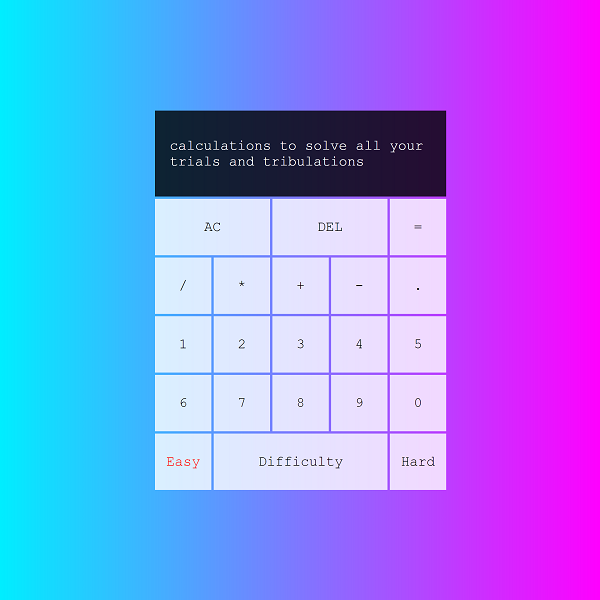
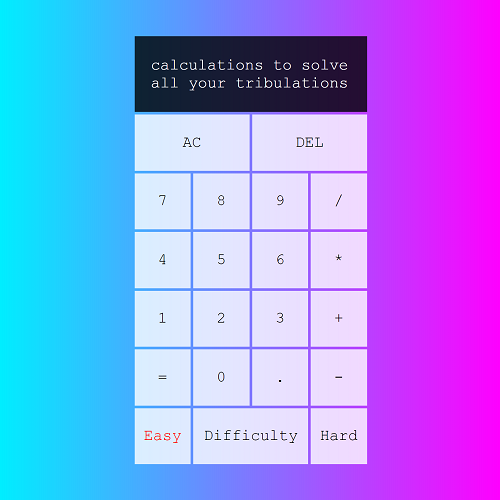
finshing touches

Changed region(s): [[0.24, 0.06, 0.75, 0.93]]

diff --git a/index.html b/index.html
@@ -13,7 +13,7 @@
 
 <body>
     <div class="grid">
-        <div id="output">calculations to solve all your trials and tribulations</div>
+        <div id="output">calculations to solve all your tribulations</div>
 
         <button class="wide" onclick="removeAll()">AC</button>
         <button class="wide" onclick="removeLast()">DEL</button>

diff --git a/style.css b/style.css
@@ -18,7 +18,7 @@ body {
     min-height: 100vh;
     max-width: 100vw;
     grid-template-columns: repeat(4, 90px);
-    grid-template-rows: minmax(120px, auto) repeat(7, 90px);
+    grid-template-rows: minmax(120px, auto) repeat(6, 90px);
     
 }
 
